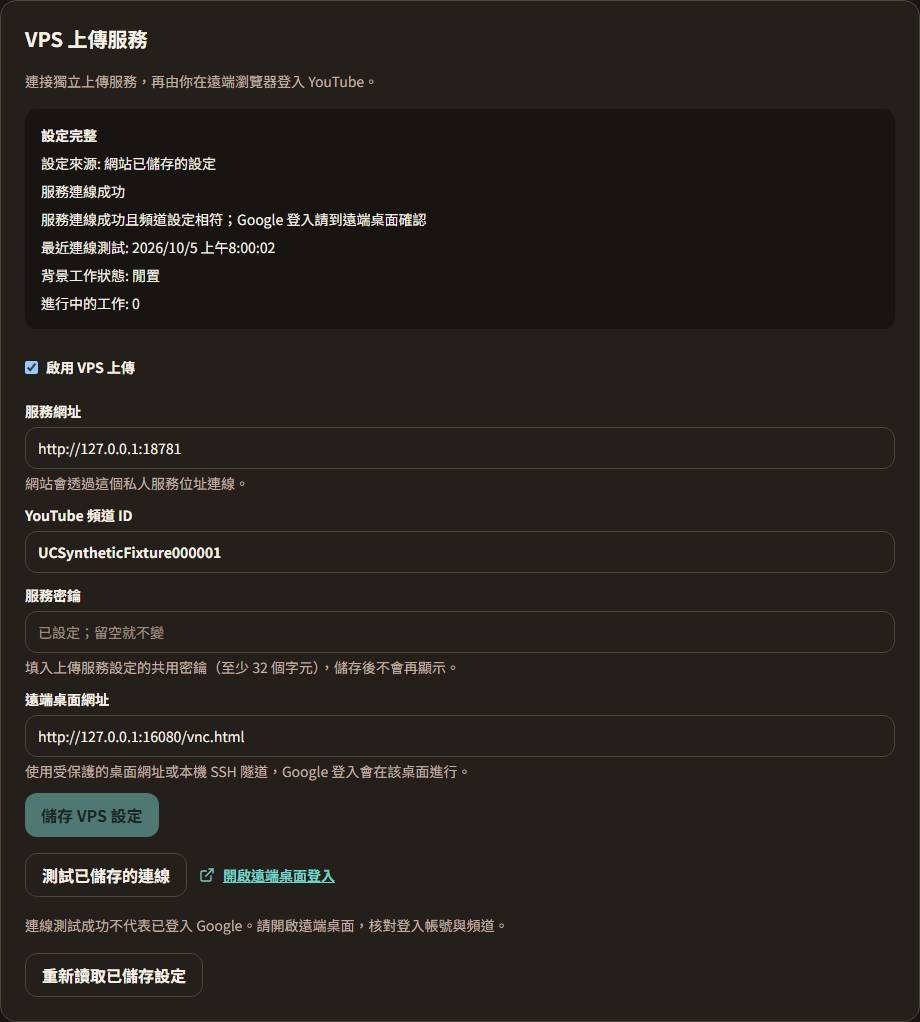
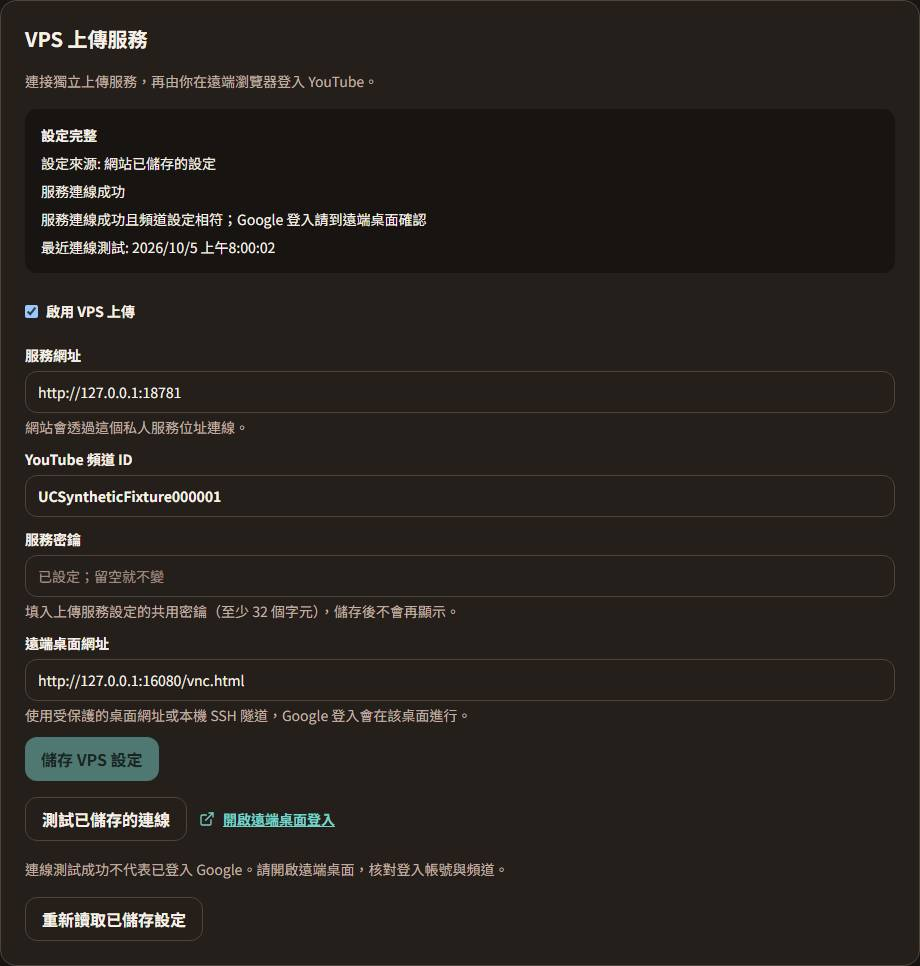
fix(web): VPS settings fixture reports background status only in a test's answer
Review found that the synthetic VPS settings store in tools/e2e-runtime-api.mjs
kept a connection test's browser_status and active_jobs and sent them back on
every later read. The API does not: vps_settings.view() returns both as null,
and only test_connection's answer carries them (model_copy(update=details)).
The committed layout screenshots come from a fresh page load, so all four
showed "背景工作狀態: 閒置" and "進行中的工作: 0", a card state production cannot
render, while the fixture comment, the receipt README and the PR body said the
store answers the way vps_settings.py does.

The store no longer keeps them: every read and save says null, and only the
answer to a test that reached the service adds idle and 0. The layout case now
asserts a page load shows neither (a store with the old behaviour fails it on
both projects). The screenshots, observed requests and attempt-20261005.json
hashes are regenerated (12/12, then 24/24 with --repeat-each=2), this time
against this checkout's fixture on its own port, because Playwright reuses any
fixture already listening on the shared :8000.

Task: 2026-09-30-youtube-vps-web-settings-browser-acceptance

Changed region(s): [[0.0304, 0.1242, 0.5478, 0.9627], [0.0304, 0.0311, 0.3957, 0.0932]]

diff --git a/apps/web/e2e/admin-video-vps-settings.spec.ts b/apps/web/e2e/admin-video-vps-settings.spec.ts
@@ -304,6 +304,10 @@ test("a configured and tested card fits desktop and mobile in light and dark", a
   expect((await state.otherAdminTests()).last_test_status).toBe("success");
   const card = await openSettings(page);
   await expect(card.getByRole("status").filter({ hasText: vps.testSuccess })).toBeVisible();
+  // A page load shows the stored verdict only; the background status and job count come with a
+  // test's own answer (the connection-test case), so the screenshots show what a reload shows.
+  await expect(card.getByText(`${vps.browser}:`)).toHaveCount(0);
+  await expect(card.getByText(`${vps.activeJobs}:`)).toHaveCount(0);
   await expect(card.getByRole("link", { name: vps.openDesktop })).toBeVisible();
   await expect(fields(card).secret).toHaveAttribute("placeholder", vps.secretKept);
   // The screenshots are the visual evidence: CI keeps them as an artifact, VPS_ACCEPTANCE_DIR the receipt.

diff --git a/docs/videos/vps-web-settings-acceptance/README.md b/docs/videos/vps-web-settings-acceptance/README.md
@@ -23,7 +23,10 @@ every pull request in both projects of `apps/web/playwright.config.ts`
   `apps/api/app/video_youtube/vps_settings.py` does where the card can tell: the
   secret is write-only, unknown fields are a 422, a stale `expected_updated_at` is a
   409, a save clears the last test, and a connection test answers 200 with its
-  verdict and a new revision. It forwards nothing anywhere.
+  verdict and a new revision. Like the API, it never stores the background status
+  and job count: `view()` leaves both null, and only the answer to a test that
+  reached the service carries them (`test_connection`'s `model_copy(update=details)`),
+  so a page load never shows them. It forwards nothing anywhere.
 - The spec's route handler adds `?fixture=<project, test, attempt>` to those requests
   so the parallel desktop and mobile runs never share a revision. That query string
   is the only difference from what the card sends in production.
@@ -44,7 +47,7 @@ and secrets that say `synthetic-e2e-secret-not-real`.
 
 | Definition of done | Case in the spec | Local 2026-10-05 | CI |
 | --- | --- | --- | --- |
-| Desktop and mobile layouts, light and dark, no clipping or horizontal overflow | "a configured and tested card fits…" (and the empty card at the start of the save case, without screenshots) | passed, both projects; screenshots below | pending |
+| Desktop and mobile layouts, light and dark, no clipping or horizontal overflow | "a configured and tested card fits…": a page load after another administrator's successful test, which shows the stored verdict and, as asserted, no background status or job count (and the empty card at the start of the save case, without screenshots) | passed, both projects; screenshots below | pending |
 | Save, reload | "an owner saves and reloads…": first save sends every field with `expected_updated_at: null`; after a reload the URL, channel, desktop and switch persist and the password field is empty with the "kept" placeholder | passed | pending |
 | Test failure and success | "a connection test fails on a mistyped channel…": failed alert and reason, the test button stays off while the edit is unsaved, the correction sends only `channel_id` at the revision the test left, then success with background status idle and 0 jobs | passed | pending |
 | Stale-write recovery | "a stale save keeps the edits…": another administrator changes the desktop address; the card's save gets 409 and keeps the edited channel and secret; refresh takes the new desktop address and keeps both edits; the retry sends only `channel_id`, `secret` and the new revision | passed | pending |
@@ -56,7 +59,9 @@ and secrets that say `synthetic-e2e-secret-not-real`.
 Committed evidence, all from the local run:
 
 - `youtube-vps-settings-{desktop,mobile}-chromium-tested-{light,dark}.jpg`: the card
-  after a successful synthetic connection test, clipped from a full-page capture.
+  as a page load shows it after a successful synthetic connection test (the verdict,
+  its message and time, no background status or job count), clipped from a
+  full-page capture.
 - `observed-requests-{desktop,mobile}-chromium.json`: each case's settings requests
   as the browser saw them (method, path, status, fields sent with the secret replaced
   by a placeholder, and the non-secret fields received). Seeding and "another
@@ -66,7 +71,11 @@ Committed evidence, all from the local run:
 
 Regenerate them with `VPS_ACCEPTANCE_DIR=<absolute path of this folder>` set for a
 run of the spec; without it, CI writes the screenshots under `test-results` and keeps
-them for three days as the `youtube-manual-browser-evidence-*` artifact.
+them for three days as the `youtube-manual-browser-evidence-*` artifact. Playwright
+reuses any runtime fixture already listening on `127.0.0.1:8000`, so on a machine
+shared with other checkouts start this checkout's fixture on its own port
+(`E2E_API_PORT`) and point `API_INTERNAL_URL` at it, as the rerun in
+`attempt-20261005.json` did.
 
 ## Found and fixed during acceptance
 
@@ -75,6 +84,13 @@ out of view (viewport ratio 0 on both projects): the tab renders on the client, 
 the browser's own fragment jump found nothing. `YoutubeVpsSettingsCard` now scrolls
 itself into view once, when its settings first arrive and the URL names its fragment
 (unit test in `apps/web/components/admin-video-vps-settings.test.tsx`).
+
+Review of the first receipt found a fixture error, not a product one: the synthetic
+store kept a test's background status and job count and sent them back on every later
+read, so the first screenshots showed "背景工作狀態: 閒置" and "進行中的工作: 0" after a
+page load, a state the API cannot produce. The store now adds them to the test's own
+answer only, the layout case asserts a page load shows neither, and the screenshots,
+observed requests and hashes were regenerated.
 
 ## Limits
 
@@ -88,8 +104,9 @@ itself into view once, when its settings first arrive and the URL names its frag
   30 s. Before the read-only case dropped a layout pass the layout case already makes,
   it timed out once in 24 local repeats (an 8.5 s browser start and an 8 s stalled
   page evaluation). The final spec passed 12 of 12 in the receipt run and 24 of 24
-  repeated twice. Whether these budgets hold on CI's runners is what the pending CI
-  run shows.
+  repeated twice, both in the first run and in the rerun after the review correction
+  above (where the first case took up to 29 s). Whether these budgets hold on CI's
+  runners is what the pending CI run shows.
 - The synthetic store copies the API's rules; the rules themselves are proven by
   `apps/api/tests/test_video_youtube_vps_settings.py` (including
   `test_settings_routes_apply_explicit_read_and_manage_permissions` for direct writes

diff --git a/tasks/done/2026-09-30-youtube-vps-web-settings-browser-acceptance.md b/tasks/done/2026-09-30-youtube-vps-web-settings-browser-acceptance.md
@@ -94,6 +94,16 @@ Production deployment, Google login and real upload remain under the existing
   Screenshots, observed requests and `attempt-20261005.json` are in
   `docs/videos/vps-web-settings-acceptance/`; the README there marks CI as pending
   until this PR's `web-e2e` run is green.
+- Review round 1 (same owner): the synthetic store kept a test's `browser_status` and
+  `active_jobs` and sent them back on every later read, so the first layout screenshots
+  showed "背景工作狀態: 閒置" and "進行中的工作: 0" after a page load. The API never
+  stores them (`view()` leaves both null; only `test_connection`'s answer adds them
+  through `model_copy(update=details)`). The store now does the same, the layout case
+  asserts a page load shows neither (a store with the old behaviour fails it on both
+  projects), and the screenshots, observed requests and receipt hashes were regenerated:
+  12/12 and 24/24 again, this time against this checkout's fixture on its own port
+  (`E2E_API_PORT=18800`, `API_INTERNAL_URL`), because Playwright reuses whatever fixture
+  already listens on the shared `:8000`.
 - Not repeated here: a read-only role's direct API write is refused by the API
   (`test_settings_routes_apply_explicit_read_and_manage_permissions`); the spec checks
   that the UI sends no write. Real VPS, Google login, uploads and deployment stay with
